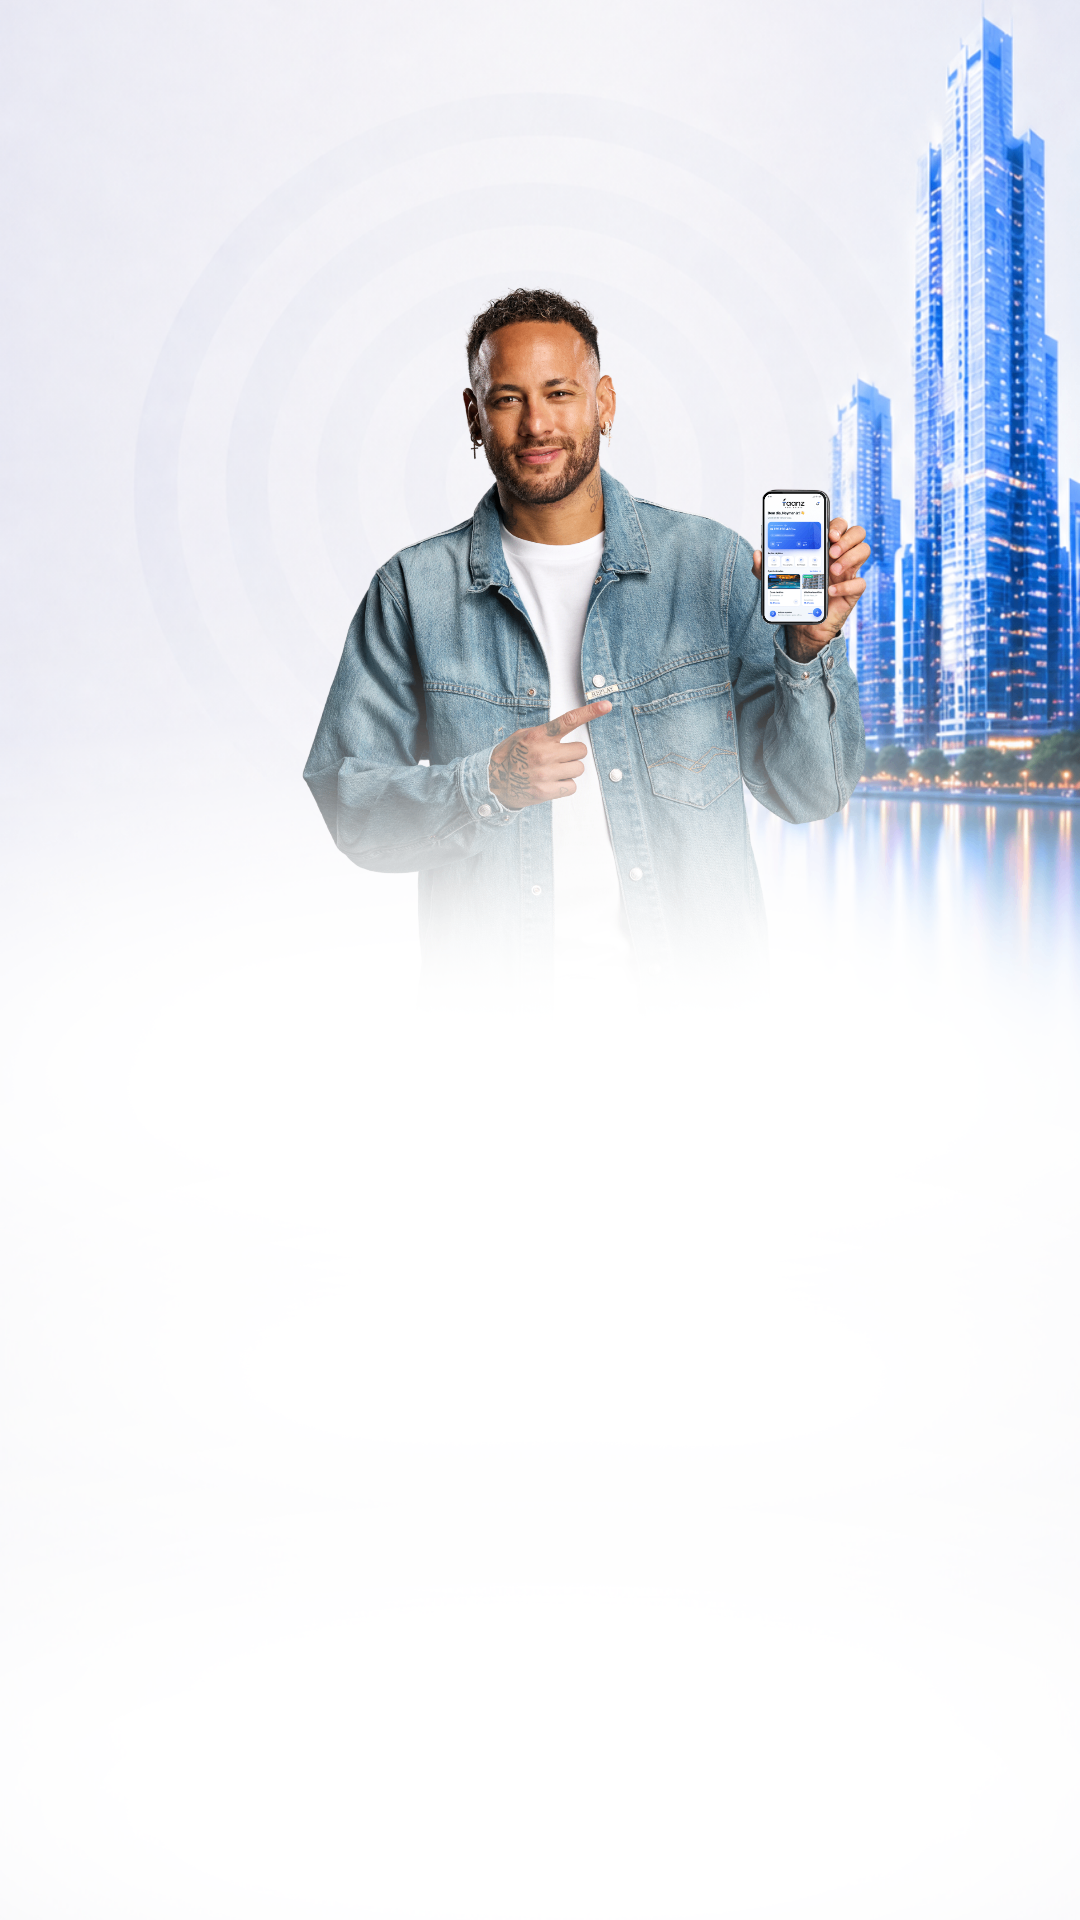
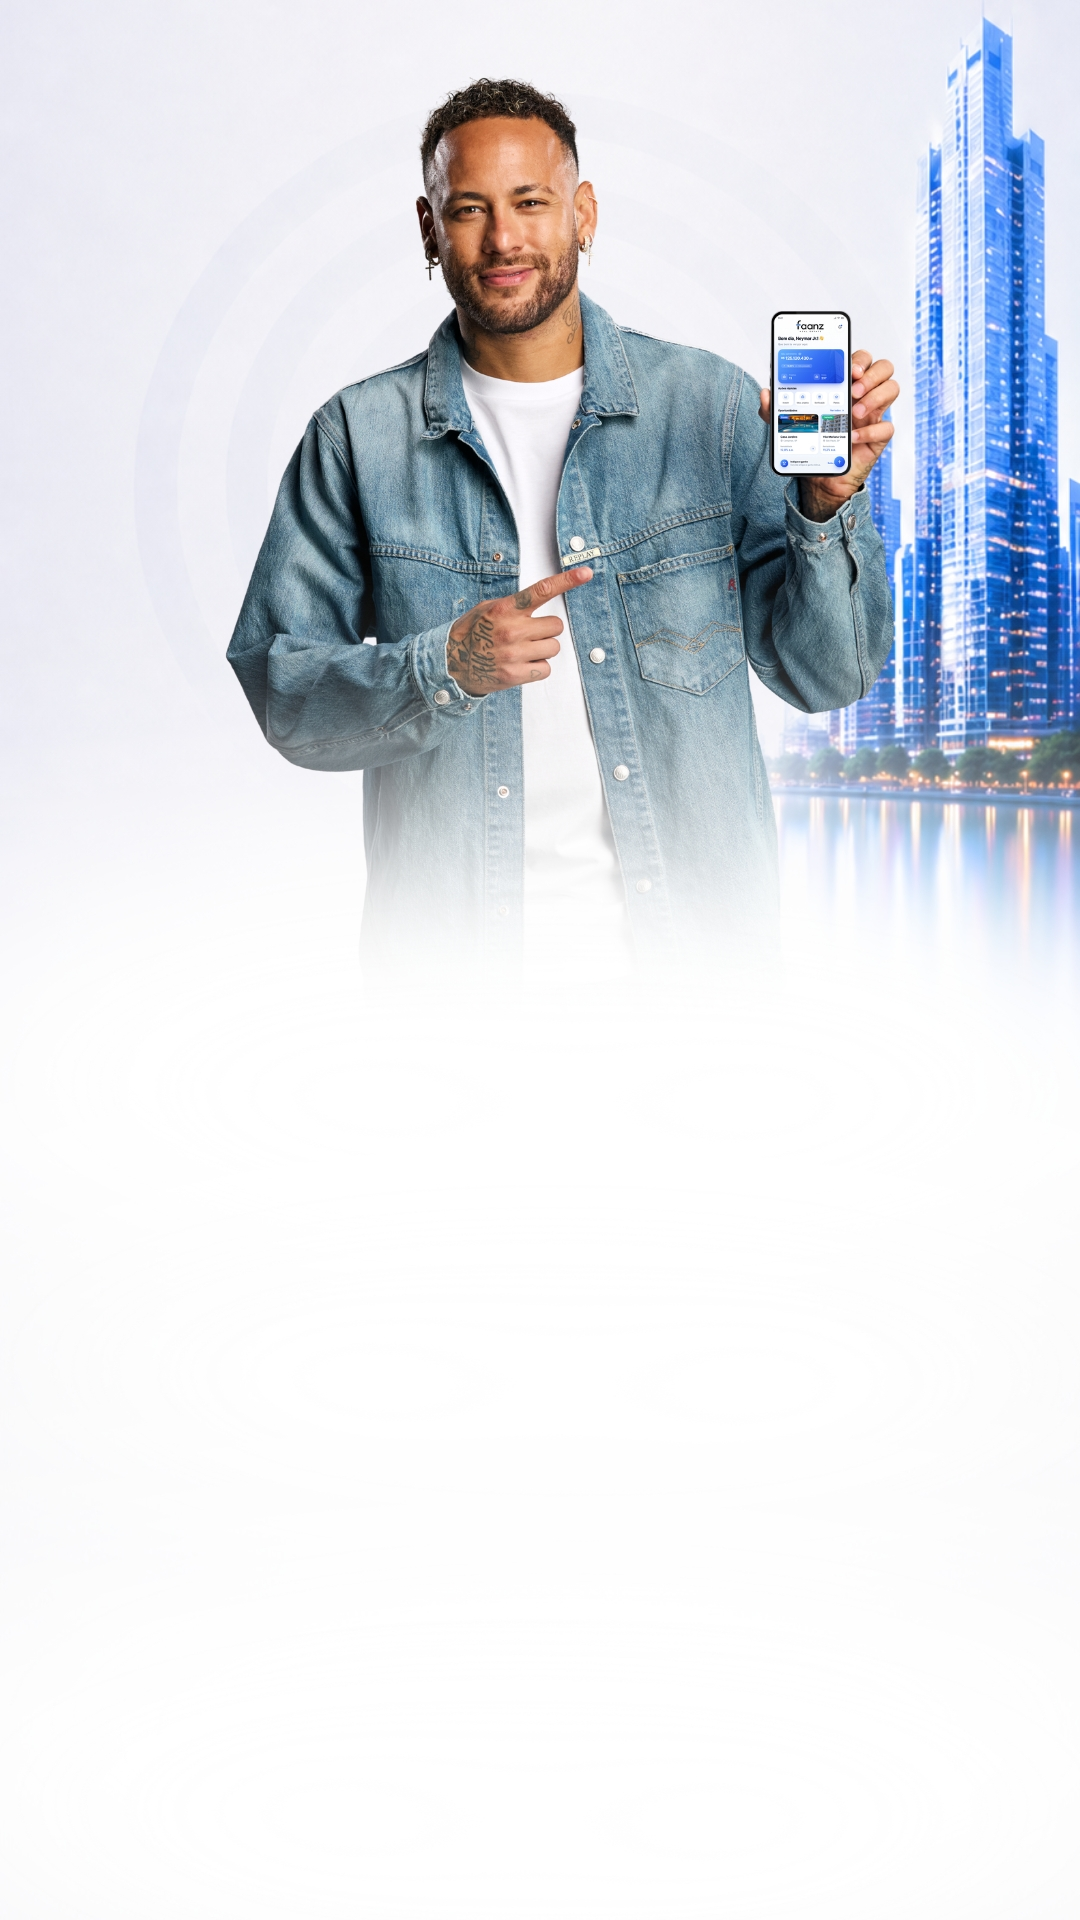
Changes

Changed region(s): [[0.2139, 0.0312, 0.8556, 0.4688]]

diff --git a/src/pages/LandingPage.tsx b/src/pages/LandingPage.tsx
@@ -266,7 +266,7 @@ const LandingPage = () => {
           alt=""
           aria-hidden="true"
           className="pointer-events-none absolute inset-0 h-full w-full select-none object-cover lg:hidden"
-          style={{ objectPosition: "center -180px" }}
+          style={{ objectPosition: "center top" }}
         />
         <img
           src={heroBg}
